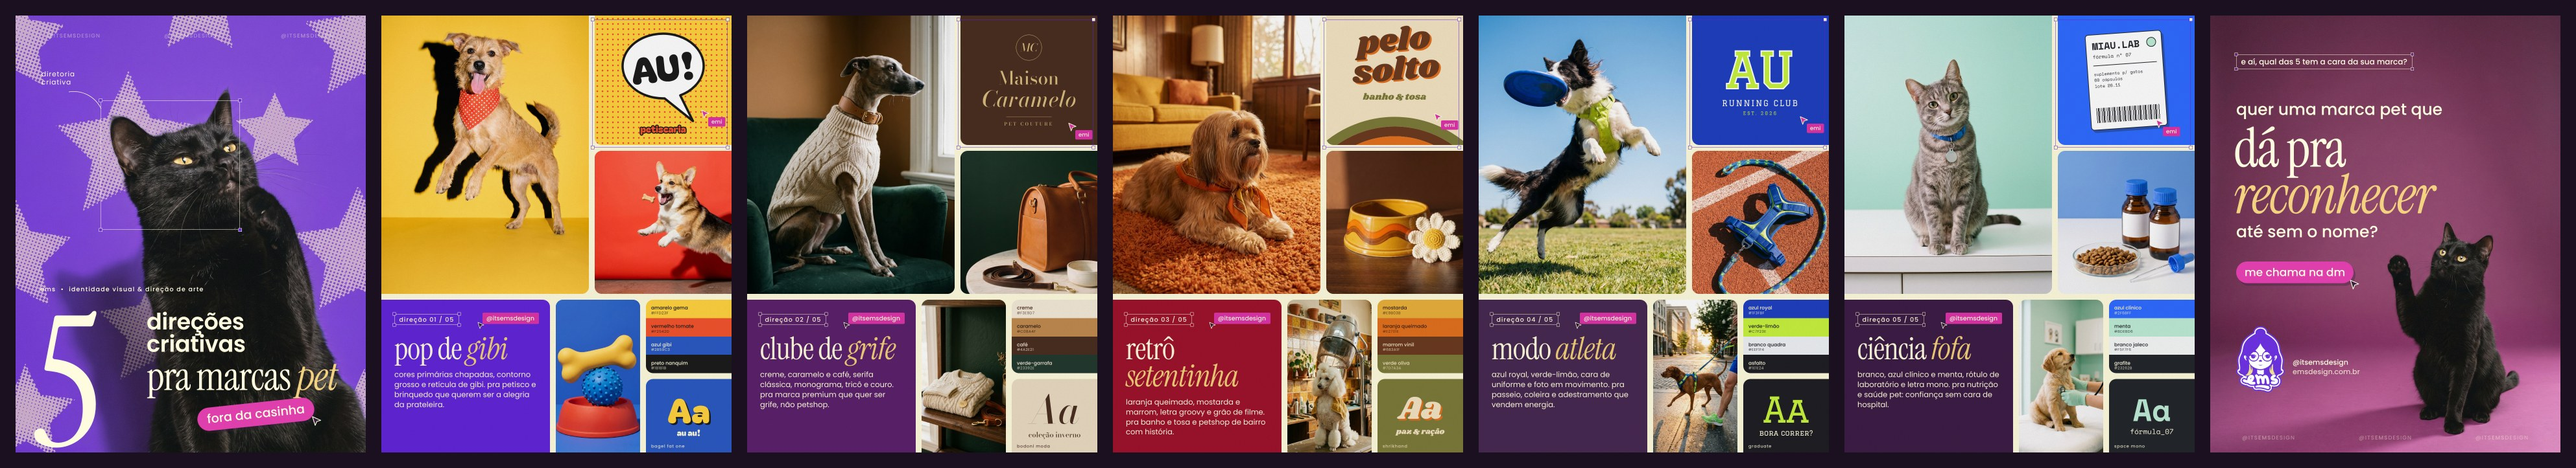
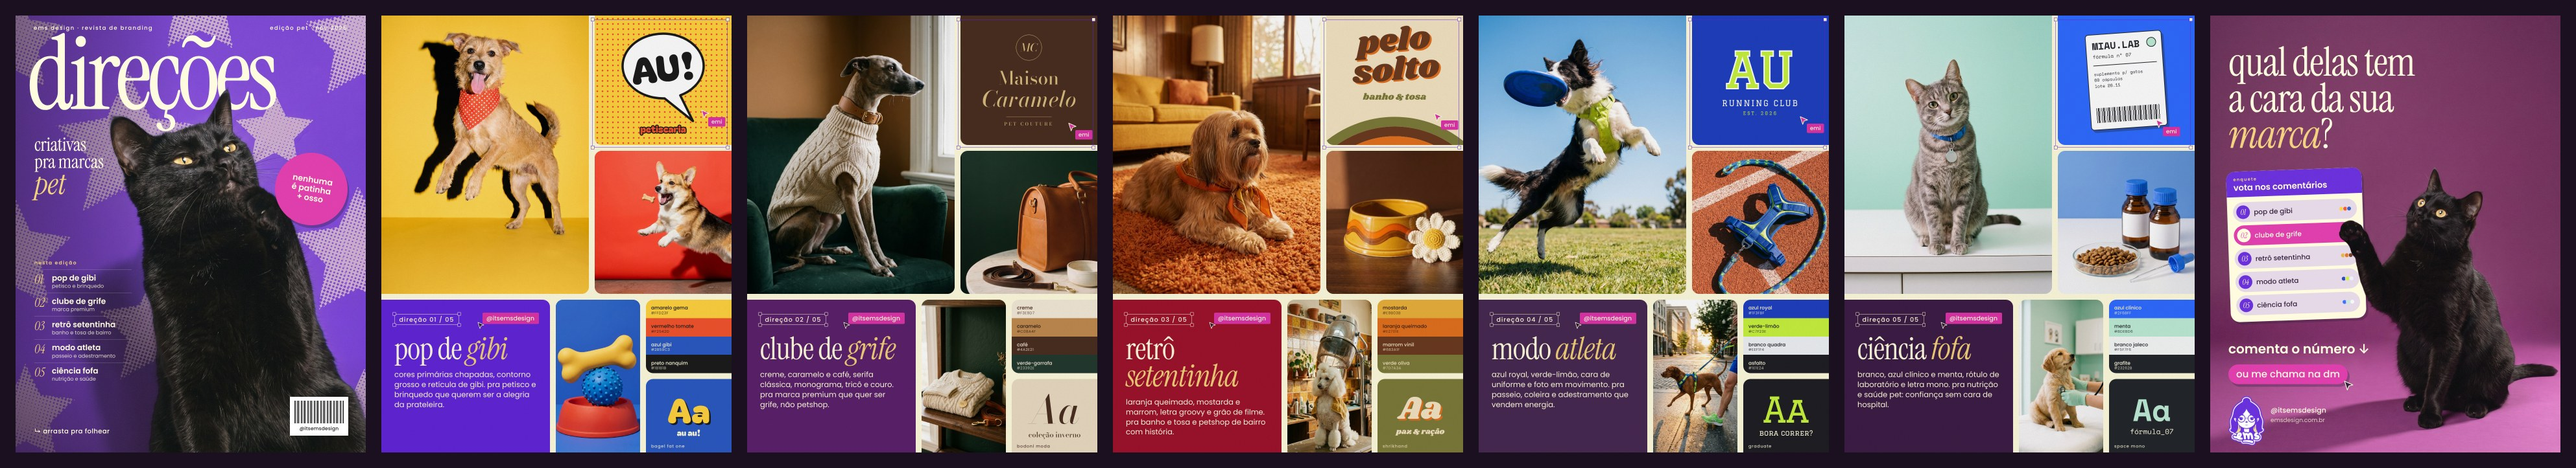
EMS carrossel pet v5: capa de revista e chamada em enquete
A Emi aprovou as lâminas de direção da v4, mas reprovou a diagramação
da capa (seleção fora do rosto do gato, "diretoria criativa" copiado,
estrutura da referência) e da chamada ("xoxo"). Pediu diagramação
própria para cada post, com referência de diagramação.

- capa: capa de revista. Nome "direções" atrás da cabeça do gato
  (recorte da mesma foto por cima), chamadas das 5 direções, selo
  "nenhuma é patinha + osso", código de barras com o @
- chamada: "qual delas tem a cara da sua marca?" com cartão de enquete;
  o gato aperta uma opção com a pata (recorte por cima)
- ems.md: regra "os posts precisam ser diferentes", recursos que não
  se reaproveitam entre posts, como fazer recorte na frente do texto

Claude-Session: https://claude.ai/code/session_01CmCiK9WG5RWJH1hBNUU9U9

Changed region(s): [[0.8429, 0.0304, 0.999, 0.9737], [0.0, 0.0304, 0.1561, 0.9737], [0.0937, 0.3347, 0.1561, 0.4869]]

diff --git a/Emi/ems-5-direcoes-pet/projeto/estilo.css b/Emi/ems-5-direcoes-pet/projeto/estilo.css
@@ -116,31 +116,55 @@ img.foto { position: absolute; display: block; }
 .paleta.mini small { font: 400 11.5px/1.3 var(--sans); }
 .tipo .nome { font-size: 13px; left: 16px; bottom: 13px; }
 
-/* ---------- capa (v2, aprovada) ---------- */
+/* ---------- capa: capa de revista ---------- */
 .capa { background: var(--violeta); }
-.capa .rotulo { position: absolute; left: 76px; top: 836px; z-index: 12; font: 500 19px/1 var(--sans); letter-spacing: .12em; color: var(--ivory); }
-.capa .cinco { position: absolute; left: 52px; top: 860px; z-index: 12; font: 400 560px/1 var(--serif); letter-spacing: -.04em; color: var(--ivory); }
-.capa .titulo { position: absolute; left: 404px; top: 912px; z-index: 12; }
-.capa .titulo .l1 { font: 600 70px/.98 var(--sans); letter-spacing: -.01em; color: var(--ivory); }
-.capa .titulo .l2 { font: 400 124px/.9 var(--serif); letter-spacing: -.02em; color: var(--ivory); margin-top: 10px; }
-.capa .titulo .l2 em { color: var(--manteiga); }
-.capa .adesivo { position: absolute; z-index: 14; left: 560px; top: 1196px; transform: rotate(-6deg);
-  background: var(--pink); color: var(--ivory); font: 500 38px/1 var(--sans); padding: 16px 30px 18px;
-  border-radius: 999px; box-shadow: var(--shadow-sticker); }
-.capa .adesivo svg { position: absolute; right: -20px; bottom: -22px; width: 34px; height: 34px; transform: rotate(6deg); }
-.capa .adesivo svg path { fill: var(--tinta); stroke: var(--ivory); stroke-width: 1.6; stroke-linejoin: round; }
-.capa .nota { position: absolute; z-index: 15; font: 400 21px/1.2 var(--sans); letter-spacing: .08em; color: var(--ivory); }
-.capa .nota-linha { position: absolute; z-index: 15; fill: none; stroke: var(--ivory); stroke-width: 1.6; }
+.capa img.recorte { z-index: 6; }
+.capa .escurece { position: absolute; inset: 0; z-index: 2;
+  background: linear-gradient(90deg, rgba(42, 20, 51, .55) 0, rgba(42, 20, 51, .25) 30%, transparent 48%),
+              linear-gradient(0deg, rgba(42, 20, 51, .45) 0, transparent 22%); }
+.capa .meta { position: absolute; left: 56px; right: 56px; top: 30px; z-index: 8; display: flex; justify-content: space-between;
+  font: 500 17px/1 var(--sans); letter-spacing: .16em; color: var(--ivory); }
+.capa .masthead { position: absolute; left: 34px; top: 22px; z-index: 4; font: 400 318px/1 var(--serif); letter-spacing: -.045em; color: var(--ivory); }
+.capa .sub { position: absolute; left: 58px; top: 372px; z-index: 8; font: 400 58px/.92 var(--serif); letter-spacing: -.01em; color: var(--ivory); }
+.capa .sub em { color: var(--manteiga); font-size: 92px; }
+.capa .selo-redondo { position: absolute; left: 800px; top: 424px; z-index: 8; width: 224px; height: 224px; border-radius: 50%;
+  background: var(--pink); display: grid; place-items: center; text-align: center; transform: rotate(9deg); box-shadow: var(--shadow-sticker); }
+.capa .selo-redondo span { font: 600 25px/1.12 var(--sans); color: var(--ivory); }
+.capa .chamadas { position: absolute; left: 58px; top: 756px; width: 300px; z-index: 8; color: var(--ivory); }
+.capa .chamadas .rot { font: 600 15px/1 var(--sans); letter-spacing: .18em; color: var(--manteiga); margin-bottom: 14px; }
+.capa .chamadas .item { display: flex; gap: 14px; align-items: flex-start; padding: 12px 0; border-top: 1px solid rgba(255, 251, 222, .3); }
+.capa .chamadas .n { font: italic 400 38px/.9 var(--serif); color: var(--manteiga); width: 40px; }
+.capa .chamadas .tx { display: flex; flex-direction: column; gap: 4px; }
+.capa .chamadas b { font: 600 24px/1.05 var(--sans); }
+.capa .chamadas small { font: 400 16px/1.1 var(--sans); opacity: .8; }
+.capa .arrasta { position: absolute; left: 58px; top: 1274px; z-index: 8; font: 500 20px/1 var(--sans); letter-spacing: .04em; color: var(--ivory); }
+.capa .barras { position: absolute; left: 846px; top: 1178px; z-index: 8; width: 180px; height: 120px; background: #fff; padding: 12px 14px 0; }
+.capa .barras .b { height: 70px; background: repeating-linear-gradient(90deg, #111 0 3px, transparent 3px 5px, #111 5px 6px, transparent 6px 9px, #111 9px 13px, transparent 13px 15px, #111 15px 16px, transparent 16px 20px); }
+.capa .barras span { display: block; text-align: center; font: 500 15px/1 var(--sans); color: #111; margin-top: 8px; letter-spacing: .02em; }
 
-/* ---------- chamada (v2) ---------- */
+/* ---------- chamada: enquete ---------- */
 .chamada { background: var(--plum); }
-.chamada .pergunta { position: absolute; left: 80px; top: 120px; z-index: 12; font: 500 24px/1.25 var(--sans); color: var(--ivory); --sel-fill: var(--plum); }
-.chamada .lead { position: absolute; left: 80px; z-index: 12; font: 500 50px/1.1 var(--sans); color: var(--ivory); }
-.chamada .grande { position: absolute; left: 72px; z-index: 12; font: 400 168px/.86 var(--serif); letter-spacing: -.02em; color: var(--ivory); }
+.chamada img.recorte { z-index: 9; }
+.chamada .grande { position: absolute; left: 56px; top: 88px; z-index: 8; font: 400 124px/.9 var(--serif); letter-spacing: -.02em; color: var(--ivory); }
 .chamada .grande em { color: var(--manteiga); }
-.chamada .selo { position: absolute; z-index: 12; }
-.chamada .dm { position: absolute; z-index: 14; font: 500 34px/1 var(--sans); padding: 16px 26px 17px; border-radius: 999px;
+.chamada .enquete { position: absolute; left: 56px; top: 476px; width: 418px; z-index: 8; background: var(--ivory); border-radius: 28px;
+  padding: 0 18px 20px; box-shadow: var(--shadow-sticker); transform: rotate(-2deg); overflow: hidden; }
+.chamada .enquete .topo { margin: 0 -18px 16px; padding: 18px 22px 16px; background: var(--violeta); color: var(--ivory); display: flex; flex-direction: column; gap: 6px; }
+.chamada .enquete .topo span { font: 600 13px/1 var(--sans); letter-spacing: .2em; color: var(--manteiga); }
+.chamada .enquete .topo b { font: 600 26px/1 var(--sans); }
+.chamada .enquete .op { display: flex; align-items: center; gap: 12px; height: 62px; padding: 0 16px 0 10px; margin-top: 10px; border-radius: 999px; background: var(--lavanda-2); color: var(--tinta); }
+.chamada .enquete .op .n { width: 42px; height: 42px; border-radius: 50%; background: var(--violeta); color: var(--ivory); display: grid; place-items: center; font: italic 400 24px/1 var(--serif); }
+.chamada .enquete .op .nm { flex: 1; font: 500 21px/1 var(--sans); }
+.chamada .enquete .op .pts { display: flex; }
+.chamada .enquete .op .pts i { width: 16px; height: 16px; border-radius: 50%; margin-left: -4px; border: 2px solid var(--lavanda-2); }
+.chamada .enquete .op.marcada { background: var(--pink); color: var(--ivory); }
+.chamada .enquete .op.marcada .n { background: var(--ivory); color: var(--pink); }
+.chamada .enquete .op.marcada .pts i { border-color: var(--pink); }
+.chamada .comenta { position: absolute; left: 56px; top: 1010px; z-index: 8; font: 600 40px/1 var(--sans); color: var(--ivory); }
+.chamada .dm { position: absolute; left: 56px; top: 1078px; z-index: 8; font: 500 30px/1 var(--sans); padding: 15px 24px 16px; border-radius: 999px;
   background: var(--pink); color: var(--ivory); box-shadow: var(--shadow-sticker); }
 .chamada .dm svg { position: absolute; right: -20px; bottom: -22px; width: 34px; height: 34px; }
 .chamada .dm svg path { fill: var(--tinta); stroke: var(--ivory); stroke-width: 1.6; stroke-linejoin: round; }
-.chamada .assina { position: absolute; z-index: 12; font: 500 22px/1.3 var(--sans); color: var(--ivory); }
+.chamada .selo { position: absolute; left: 56px; top: 1176px; width: 112px; z-index: 8; }
+.chamada .assina { position: absolute; left: 186px; top: 1206px; z-index: 8; font: 500 22px/1.3 var(--sans); color: var(--ivory); }
+.chamada .assina span { font-weight: 400; font-size: 18px; opacity: .75; }

diff --git a/Emi/ems-5-direcoes-pet/projeto/carrossel.html b/Emi/ems-5-direcoes-pet/projeto/carrossel.html
@@ -25,7 +25,7 @@ function marcaDagua(slide, y, tom = 'var(--ivory)') {
 // Foto inteira (cenário já fotografado, sem recorte) cobrindo a caixa: como object-fit: cover,
 // com posição px/py (0 a 1, como object-position) e zoom opcional. Tamanho explícito para o export do Figma.
 function cheia(caixa, c, Wc, Hc) {
-  const img = el('img', 'foto'); img.src = 'img/' + c.src + '.jpg'; img.alt = c.src;
+  const img = el('img', 'foto' + (c.classe ? ' ' + c.classe : '')); img.src = 'img/' + c.src + '.' + (c.ext || 'jpg'); img.alt = c.src;
   img.onload = () => {
     const s = Math.max(Wc / img.naturalWidth, Hc / img.naturalHeight) * (c.zoom || 1);
     const w = img.naturalWidth * s, h = img.naturalHeight * s;
@@ -136,37 +136,46 @@ function laminaDirecao(d, i) {
   return s;
 }
 
-// ---------- capa (v2) ----------
+// ---------- capa: capa de revista ----------
+// O gato é o "modelo da capa": foto inteira no fundo, o nome da revista ("direções") atrás da cabeça
+// (a mesma foto recortada vai por cima do título, alinhada pixel a pixel), chamadas das 5 direções à esquerda.
 function capa() {
   const s = el('section', 'slide capa'); s.dataset.nome = 'lamina-01';
-  cheia(s, CAPA.cheia, 1080, 1350);
-  marcaDagua(s, 54);
+  cheia(s, CAPA.foto, W, H);
   s.insertAdjacentHTML('beforeend', `
-    <div class="rotulo">ems &nbsp;•&nbsp; identidade visual & direção de arte</div>
-    <div class="cinco">5</div>
-    <div class="titulo"><div class="l1">direções<br>criativas</div><div class="l2">pra marcas <em>pet</em></div></div>
-    <div class="adesivo">fora da casinha${CURSOR}</div>`);
-  const n = CAPA.nota;
-  s.insertAdjacentHTML('beforeend', `<div class="nota" style="left:${n.x}px;top:${n.y}px">${n.texto}</div>
-    <svg class="nota-linha" style="left:${n.lx}px;top:${n.ly}px" width="${n.lw}" height="${n.lh}"><path d="${n.path}"/></svg>`);
-  const sb = el('div', 'sel', SEL); sb.style.cssText = CAPA.selecao + ';--sel:var(--ivory);--sel-fill:var(--violeta)'; s.appendChild(sb);
+    <div class="escurece"></div>
+    <div class="meta"><span>ems design · revista de branding</span><span>edição pet · nov 2026</span></div>
+    <div class="masthead">direções</div>`);
+  cheia(s, { ...CAPA.foto, src: CAPA.recorte, ext: 'png', classe: 'recorte' }, W, H);
+  s.insertAdjacentHTML('beforeend', `
+    <div class="sub">criativas<br>pra marcas<br><em>pet</em></div>
+    <div class="selo-redondo"><span>nenhuma<br>é patinha<br>+ osso</span></div>
+    <div class="chamadas"><div class="rot">nesta edição</div>${DIRECOES.map((d, i) =>
+      `<div class="item"><span class="n">${num(i + 1)}</span><span class="tx"><b>${d.titulo.replace(/<\/?em>/g, '')}</b><small>${d.pra}</small></span></div>`).join('')}</div>
+    <div class="arrasta">↳ arrasta pra folhear</div>
+    <div class="barras"><div class="b"></div><span>@itsemsdesign</span></div>`);
   s.appendChild(el('div', 'grain claro'));
   return s;
 }
 
-// ---------- chamada (v2) ----------
+// ---------- chamada: enquete ----------
+// O gato da chamada levanta a pata e "aperta" uma opção da enquete (recorte por cima do cartão).
 function chamada() {
   const s = el('section', 'slide chamada'); s.dataset.nome = 'lamina-07';
-  cheia(s, CHAMADA.cheia, 1080, 1350);
-  marcaDagua(s, 1296);
+  cheia(s, CHAMADA.foto, W, H);
   s.insertAdjacentHTML('beforeend', `
-    <div class="pergunta"><span class="sel-inline">${SEL}e aí, qual das 5 tem a cara da sua marca?</span></div>
-    <div class="lead" style="top:262px">quer uma marca pet que</div>
-    <div class="grande" style="top:338px">dá pra<br><em>reconhecer</em></div>
-    <div class="lead" style="top:640px">até sem o nome?</div>
-    <div class="dm" style="left:80px;top:760px">me chama na dm${CURSOR}</div>
-    <img class="selo" src="img/selo-ems.png" alt="selo ems" style="left:80px;top:960px;width:150px">
-    <div class="assina" style="left:254px;top:1058px">@itsemsdesign<br><span style="opacity:.75">emsdesign.com.br</span></div>`);
+    <div class="grande">qual delas tem<br>a cara da sua<br><em>marca</em>?</div>
+    <div class="enquete">
+      <div class="topo"><span>enquete</span><b>vota nos comentários</b></div>
+      ${DIRECOES.map((d, i) => `<div class="op${i === CHAMADA.marcada ? ' marcada' : ''}"><span class="n">${num(i + 1)}</span><span class="nm">${d.titulo.replace(/<\/?em>/g, '')}</span>
+        <span class="pts">${d.paleta.slice(0, 3).map(([, hex]) => `<i style="background:${hex}"></i>`).join('')}</span></div>`).join('')}
+    </div>`);
+  cheia(s, { ...CHAMADA.foto, src: CHAMADA.recorte, ext: 'png', classe: 'recorte' }, W, H);
+  s.insertAdjacentHTML('beforeend', `
+    <div class="comenta">comenta o número ↓</div>
+    <div class="dm">ou me chama na dm${CURSOR}</div>
+    <img class="selo" src="img/selo-ems.png" alt="selo ems">
+    <div class="assina">@itsemsdesign<br><span>emsdesign.com.br</span></div>`);
   s.appendChild(el('div', 'grain claro'));
   return s;
 }

diff --git a/Emi/ems-5-direcoes-pet/projeto/direcoes.js b/Emi/ems-5-direcoes-pet/projeto/direcoes.js
@@ -59,7 +59,7 @@ const MARCA = {
 const DIRECOES = [
   // ---------------- 01 · pop de gibi ----------------
   {
-    titulo: 'pop de <em>gibi</em>', card: 'var(--violeta)',
+    titulo: 'pop de <em>gibi</em>', pra: 'petisco e brinquedo', card: 'var(--violeta)',
     texto: 'cores primárias chapadas, contorno grosso e retícula de gibi. pra petisco e brinquedo que querem ser a alegria da prateleira.',
     heroi: { bg: '#FFD23F', cheia: { src: 'd1pet-2', px: .5, py: .3 } },
     marca: { bg: '#FFD23F', padrao: dots('#F2542D', 16, 22), html: MARCA.gibi, cursor: [326, 290] },
@@ -70,7 +70,7 @@ const DIRECOES = [
   },
   // ---------------- 02 · clube de grife ----------------
   {
-    titulo: 'clube de <em>grife</em>', card: 'var(--plum)',
+    titulo: 'clube de <em>grife</em>', pra: 'marca premium', card: 'var(--plum)',
     texto: 'creme, caramelo e café, serifa clássica, monograma, tricô e couro. pra marca premium que quer ser grife, não petshop.',
     heroi: { bg: '#23392E', cheia: { src: 'd2pet-2', px: .55, py: .5 } },
     marca: { bg: '#4A2E21', html: MARCA.grife, cursor: [330, 330] },
@@ -81,7 +81,7 @@ const DIRECOES = [
   },
   // ---------------- 03 · retrô setentinha ----------------
   {
-    titulo: 'retrô <em>setentinha</em>', card: 'var(--wine)',
+    titulo: 'retrô <em>setentinha</em>', pra: 'banho e tosa de bairro', card: 'var(--wine)',
     texto: 'laranja queimado, mostarda e marrom, letra groovy e grão de filme. pra banho e tosa e petshop de bairro com história.',
     heroi: { bg: '#E2701E', cheia: { src: 'd3pet-2', px: .62, py: .6 } },
     marca: { bg: '#F4E3C3', html: MARCA.setentinha(422, 400), cursor: [330, 300] },
@@ -92,7 +92,7 @@ const DIRECOES = [
   },
   // ---------------- 04 · modo atleta ----------------
   {
-    titulo: 'modo <em>atleta</em>', card: 'var(--creative-purple)',
+    titulo: 'modo <em>atleta</em>', pra: 'passeio e adestramento', card: 'var(--creative-purple)',
     texto: 'azul royal, verde-limão, cara de uniforme e foto em movimento. pra passeio, coleira e adestramento que vendem energia.',
     heroi: { bg: '#8EC9F2', cheia: { src: 'd4pet-2', px: .5, py: .4 } },
     marca: { bg: '#1F3FBF', html: MARCA.atleta, cursor: [330, 310] },
@@ -103,7 +103,7 @@ const DIRECOES = [
   },
   // ---------------- 05 · ciência fofa ----------------
   {
-    titulo: 'ciência <em>fofa</em>', card: 'var(--ameixa)',
+    titulo: 'ciência <em>fofa</em>', pra: 'nutrição e saúde', card: 'var(--ameixa)',
     texto: 'branco, azul clínico e menta, rótulo de laboratório e letra mono. pra nutrição e saúde pet: confiança sem cara de hospital.',
     heroi: { bg: '#BDEBD6', cheia: { src: 'd5pet-1', px: .5, py: .6 } },
     marca: { bg: '#2F6BFF', html: MARCA.ciencia, cursor: [300, 320] },
@@ -114,13 +114,8 @@ const DIRECOES = [
   },
 ];
 
-// Capa (a da v2, aprovada: "a capa anterior mil x melhor"): foto inteira do gato preto na parede
-// violeta com estrelas em retícula, "5" gigante, título e adesivo "fora da casinha".
-const CAPA = {
-  cheia: { src: 'capa-2', px: .5, py: .5 },
-  selecao: 'left:262px;top:262px;width:430px;height:400px',
-  nota: { texto: 'diretoria<br>criativa', x: 80, y: 168, lx: 160, ly: 226, lw: 110, lh: 70, path: 'M4 10 C44 4 84 22 104 62' },
-};
+// Capa: capa de revista com o gato preto de modelo (fundo violeta com estrelas em retícula, aprovado).
+const CAPA = { foto: { src: 'capa-2', px: .5, py: .5 }, recorte: 'capa-2-gato' };
 
-// Chamada (a da v2): o gato acenando no fundo ameixa, espaço livre em cima e à esquerda para o texto.
-const CHAMADA = { cheia: { src: 'cham-1', px: .5, py: .5 } };
+// Chamada: enquete; o gato (fundo ameixa) levanta a pata até a opção marcada.
+const CHAMADA = { foto: { src: 'cham-2', px: .85, py: .95, zoom: 1.25 }, recorte: 'cham-2-gato', marcada: 1 };

diff --git a/Emi/ems-5-direcoes-pet/README.md b/Emi/ems-5-direcoes-pet/README.md
@@ -11,11 +11,10 @@ Carrossel 1080 × 1350 (7 lâminas) para o @itsemsdesign, no formato `PostCurado
 1. **v1:** fotos recortadas pousadas em cor chapada. Reprovada: "parece copia e cola".
 2. **v2:** fotos inteiras na grade 3 × 3 da referência. "Amei, mas as imagens se repetem e queria menos cópia da ref."
 3. **v3:** um layout diferente por direção, capa marfim com índice e chamada com paletas. Reprovada: a Emi quer uma estrutura só nas 5 lâminas, e "a capa anterior mil x melhor".
-4. **v4 (atual):**
-   - Capa e chamada da v2.
-   - As 5 direções numa estrutura própria da EMS, igual em todas e diferente da referência.
-   - 3 cenas diferentes por direção.
-   - Nenhuma foto repetida.
+4. **v4:** as 5 direções numa estrutura própria da EMS, igual em todas (aprovada). Capa e chamada da v2. Reprovadas, ambas por diagramação:
+   - **Capa**: o fundo e o gato ficam, mas a seleção do Figma ficou fora do rosto e o "diretoria criativa" era "cópia na cara".
+   - **Chamada**: "muito xoxo, sem graça".
+5. **v5 (atual):** a capa vira capa de revista e a chamada vira enquete. Diagramação pensada para este post, com referências de capa de revista e adesivo de enquete. A regra: "os posts precisam ser diferentes, senão eu postava a mesma coisa todo dia".
 
 ## Estrutura das lâminas de direção (igual nas 5)
 
@@ -38,13 +37,13 @@ Respiro `ivory` de 18px, raio 22, sangria de 30px em quem encosta na borda. Coor
 
 | # | Lâmina | Cor do cartão | Fotos (destaque · quadrada · alta) | Marca fictícia · fonte |
 |---|---|---|---|---|
-| 1 | Capa: gato preto, "5 direções criativas pra marcas *pet*", adesivo "fora da casinha" | `violeta` | capa-2 | — |
+| 1 | Capa de revista: nome "direções" atrás da cabeça do gato (recorte da mesma foto por cima), "criativas pra marcas *pet*", chamadas das 5 direções, selo "nenhuma é patinha + osso", código de barras com o @ | fundo violeta da foto | capa-2 (+ recorte) | — |
 | 2 | 01 pop de *gibi* | `violeta` | vira-lata pulando · corgi e petisco · osso, bola e pote | AU! petiscaria · Bagel Fat One |
 | 3 | 02 clube de *grife* | `plum` | whippet de suéter · bolsa de couro · tricô com plaquinha MC | Maison Caramelo · Bodoni Moda |
 | 4 | 03 retrô *setentinha* | `wine` | lhasa no tapete · pote e margarida · poodle no secador | pelo solto · Shrikhand |
 | 5 | 04 modo *atleta* | `creative-purple` | border collie e frisbee · peitoral na pista · corredor e vizsla | AU running club · Graduate |
 | 6 | 05 ciência *fofa* | `ameixa` | gato tigrado · frascos e ração · filhote no veterinário | miau.lab · Space Mono |
-| 7 | Chamada: "quer uma marca pet que dá pra *reconhecer* até sem o nome?" + me chama na dm + selo | `plum` | cham-1 | — |
+| 7 | Chamada em enquete: "qual delas tem a cara da sua *marca*?", cartão de enquete com as 5 opções, o gato apertando uma com a pata (recorte por cima do cartão), "comenta o número", dm, selo | fundo ameixa da foto | cham-2 (+ recorte) | — |
 
 Legenda pronta em `legenda.md`.
 
@@ -55,7 +54,7 @@ Legenda pronta em `legenda.md`.
 - `entrega/lamina-01..07.png` e `entrega/visao-geral.jpg`: arte final.
 - `projeto/carrossel.html` + `estilo.css` + `direcoes.js`: a peça em código. `direcoes.js` concentra o conteúdo de cada direção: fotos, marca, paleta e letra.
 - `projeto/render.mjs`: `node render.mjs` exporta para `entrega/`; `node render.mjs --previa` exporta para `previa/` (fora do git).
-- `projeto/img/`: só as 17 fotos usadas e o selo original.
+- `projeto/img/`: só as fotos usadas, os dois recortes de gato (`*-gato.png`, mesmo tamanho da foto, para a camada da frente) e o selo original.
 - `projeto/figma/`: `exporta.mjs` (HTML → cena de camadas), `montador.js` (monta no Figma com `use_figma`), `sobe.sh` (envia as imagens para os nós). `figma/saida/` é gerada e fica fora do git.
 - `projeto/fonts/`: Poppins e Instrument Serif (EMS) + as cinco fontes das direções (Google Fonts, licença OFL).
 

diff --git a/.claude/skills/artes-clientes/clientes/ems.md b/.claude/skills/artes-clientes/clientes/ems.md
@@ -28,8 +28,21 @@
   - faixa de baixo com o cartão na cor da série (`violeta` → `plum` → `wine` → `creative-purple` → `ameixa`), uma foto alta e a coluna paleta + letra ("Aa").
   - Respiro `ivory` de 18px, raio 22.
 - **Foto não se repete no carrossel**, e variações da mesma cena contam como repetição. Por direção, 3 cenas diferentes: o bicho, o produto e uma cena extra (outro bicho, detalhe de material ou bastidor).
-- **Capa** (aprovada): foto inteira do gato preto na parede violeta com estrelas, "5" gigante, "direções criativas pra marcas *pet*", adesivo "fora da casinha".
-- **Chamada:** gato acenando em `plum`, "quer uma marca pet que dá pra *reconhecer* até sem o nome?", dm, selo.
+- **Capa** (v5): capa de revista.
+  - Nome "direções" em Instrument Serif gigante atrás da cabeça do gato: recorte da mesma foto, alinhado, por cima do texto.
+  - "criativas pra marcas *pet*", chamadas "nesta edição" com as 5 direções, selo redondo `pink` "nenhuma é patinha + osso" e código de barras com o @.
+  - A v4 foi reprovada por diagramação: seleção do Figma fora do rosto do gato, anotação "diretoria criativa" (cópia) e "5" gigante + pílula (estrutura da referência).
+- **Chamada** (v5): enquete.
+  - "qual delas tem a cara da sua *marca*?" e cartão de enquete com as 5 opções.
+  - O gato levanta a pata e "aperta" uma opção (recorte por cima do cartão); depois "comenta o número", dm e selo.
+  - A v4, com texto + gato + pílula, foi reprovada: "muito xoxo, sem graça".
+- **Regra da Emi: "os posts precisam ser diferentes, senão eu postava a mesma coisa todo dia".**
+  - Cada post do Instagram da EMS tem diagramação própria.
+  - Não reaproveitar os recursos de outro post: anotação à mão com linha curva, seleção do Figma decorativa, marca d'água em fila, colagem em selo do "cpf x cnpj" (esse estilo ela não quer de jeito nenhum).
+  - Não reaproveitar a estrutura da referência.
+  - A identidade (cor, fonte, selo) se mantém; a diagramação muda.
+  - Antes de diagramar capa e chamada, procurar referências de diagramação (Pinterest, capas de revista, adesivos de story) e escolher um conceito que caiba no tema.
+- **Recorte "na frente do texto":** rembg (`birefnet-general`) salvando a máscara no tamanho da foto (sem cortar), borda endurecida (alfa < 70 vira 0, > 190 vira 255) para o texto de trás não vazar pelo pelo. Posicionar com os mesmos parâmetros da foto.
 - Código reaproveitável: `Emi/ems-5-direcoes-pet/projeto/` (`direcoes.js` tem o conteúdo, `GRADE` em `carrossel.html` tem a estrutura; trocar o nicho = trocar `direcoes.js` e as fotos).
 - Figma editável: https://www.figma.com/design/elmpB2QlAid4OFWruJL31H (time 4D) · Drive: pasta `EMS · @itsemsdesign` → `2026-11 · 5 direções criativas pra marcas pet` (`1BihRkZXTpaY704VBm0gmCygNapc3i9SP`), com os 7 PNGs, a visão geral e a legenda em Doc.
 - Próximos nichos sugeridos no DS: cafeterias, confeitarias, estúdio de tatuagem, academia e luta, moda autoral, clínica de estética.
